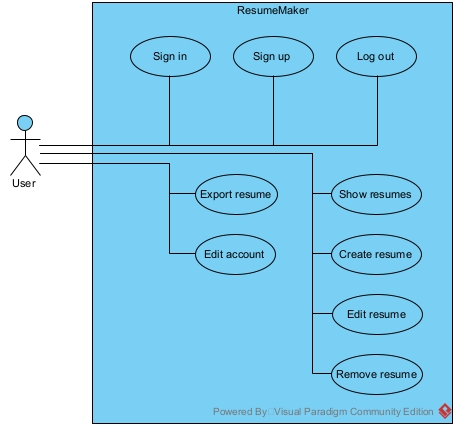
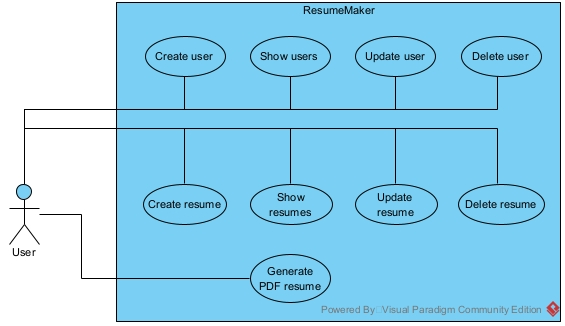
Create use case diagram with all functionalities for version 2

diff --git a/README.md b/README.md
@@ -1,11 +1,15 @@
 # ResumeMaker
 
-## 1 Diagrams
+## 1. Diagrams
 
-### 1.1 Use Case
+### 1.1. Use Case
+
+The diagram shows what actions are performed by user.
 
 ![Use Case](./Documentation/Images/UseCase.jpg)
 
-## 1.2 ERD
+## 1.2. ERD
+
+The diagram shows how the database is built.
 
 ![ERD](./Documentation/Images/ERD.jpg)